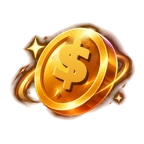
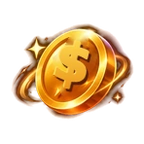
fix(assets): keep the wallet coin inside its 7% safe border
The coin restored in eed7045f drew 9 px from its 144 px edge; collectible-ui-browser.spec.js needs 10 and develop's browser shard failed (CI 44991368086). Ship the same art inset, as repaired on feature/pnpm-migration (c309cc50), and pin its sha256 so a coin swap fails npm test until the browser spec has passed.

Claude-Session: https://claude.ai/code/session_01CKo32MqXWXRAM3beAGWuAD

diff --git a/tests/wave3-currency-assets.test.js b/tests/wave3-currency-assets.test.js
@@ -1,6 +1,7 @@
 import test from 'node:test';
 import assert from 'node:assert/strict';
 import { readFileSync, existsSync, readdirSync } from 'node:fs';
+import { createHash } from 'node:crypto';
 const root = path => new URL('../' + path, import.meta.url);
 const src = path => readFileSync(root(path), 'utf8');
 const webp = path => {
@@ -30,4 +31,12 @@ test('real art is animated with object-specific motion and a readable reduced-mo
  assert.match(s,/wallet-diamond-prism/);
  assert.match(s,/prefers-reduced-motion/);
  assert.doesNotMatch(s,/wallet-shimmer|wallet-sparkle-strip/);
+});
+// The restored coin (eed7045f) drew 9 px from its edge, under the 7% safe border that collectible-ui-browser.spec.js
+// checks, and develop's browser shard went red (CI 44991368086). No WebP decoder is a dependency here, so this pins the
+// shipped blob: a new coin passes that browser spec first, then updates this hash.
+test('the shipped wallet coin is the one proven against the browser safe-border check', () => {
+ const hash = createHash('sha256').update(webp('public/feature-assets/wave3-demo/raster/wallet-coin@3x.webp')).digest('hex');
[1 lines of base64/hex data omitted]
+  'run npx playwright test tests/collectible-ui-browser.spec.js, then update this hash');
 });

diff --git a/.claude/rules/raster-artwork.md b/.claude/rules/raster-artwork.md
@@ -76,3 +76,11 @@ on the default locked artifact and with `PLAYWRIGHT_PAGES=1` on the Pages trial 
   localized name when loading fails.
 - Keep the release audit and browser checks driven by `PAINTS` so every new paint
   automatically enters both the locked and Pages trial checks.
+
+## Collectible and wallet icons keep a 7% transparent border
+
+- `tests/collectible-ui-browser.spec.js` requires every `collectible-ui/*.webp` and wallet `@3x.webp` to keep
+  `floor(size × 0.07)` transparent pixels on each side. Feature-branch CI skips browser shards, so run that spec
+  before an icon lands. Trap (2026-11-22): the restored coin (`eed7045f`) drew 9 px from its 144 px edge and
+  turned develop's browser shard red (CI 44991368086). `tests/wave3-currency-assets.test.js` pins the shipped
+  coin's sha256; a new coin passes the browser spec first, then updates that hash.
